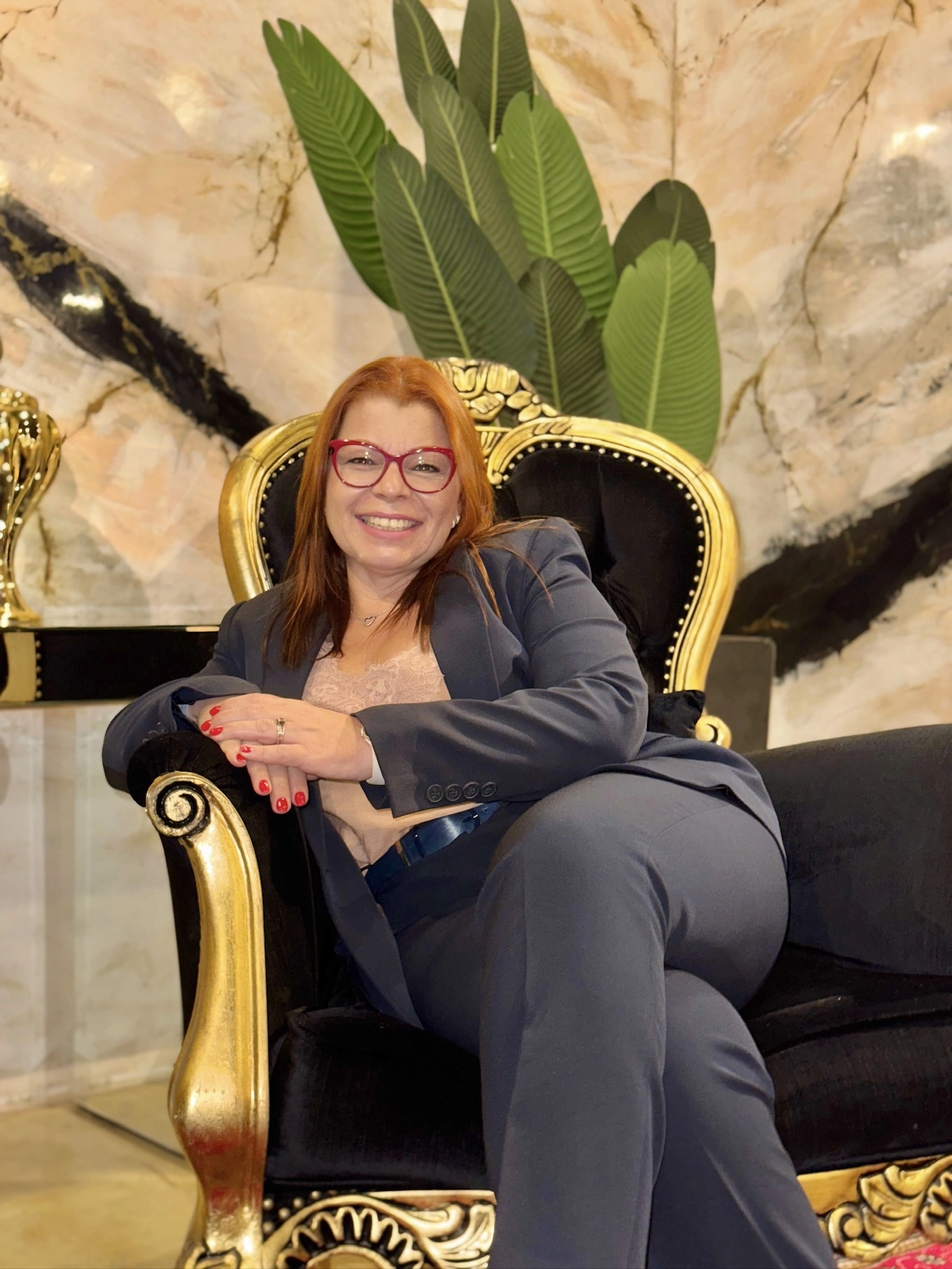
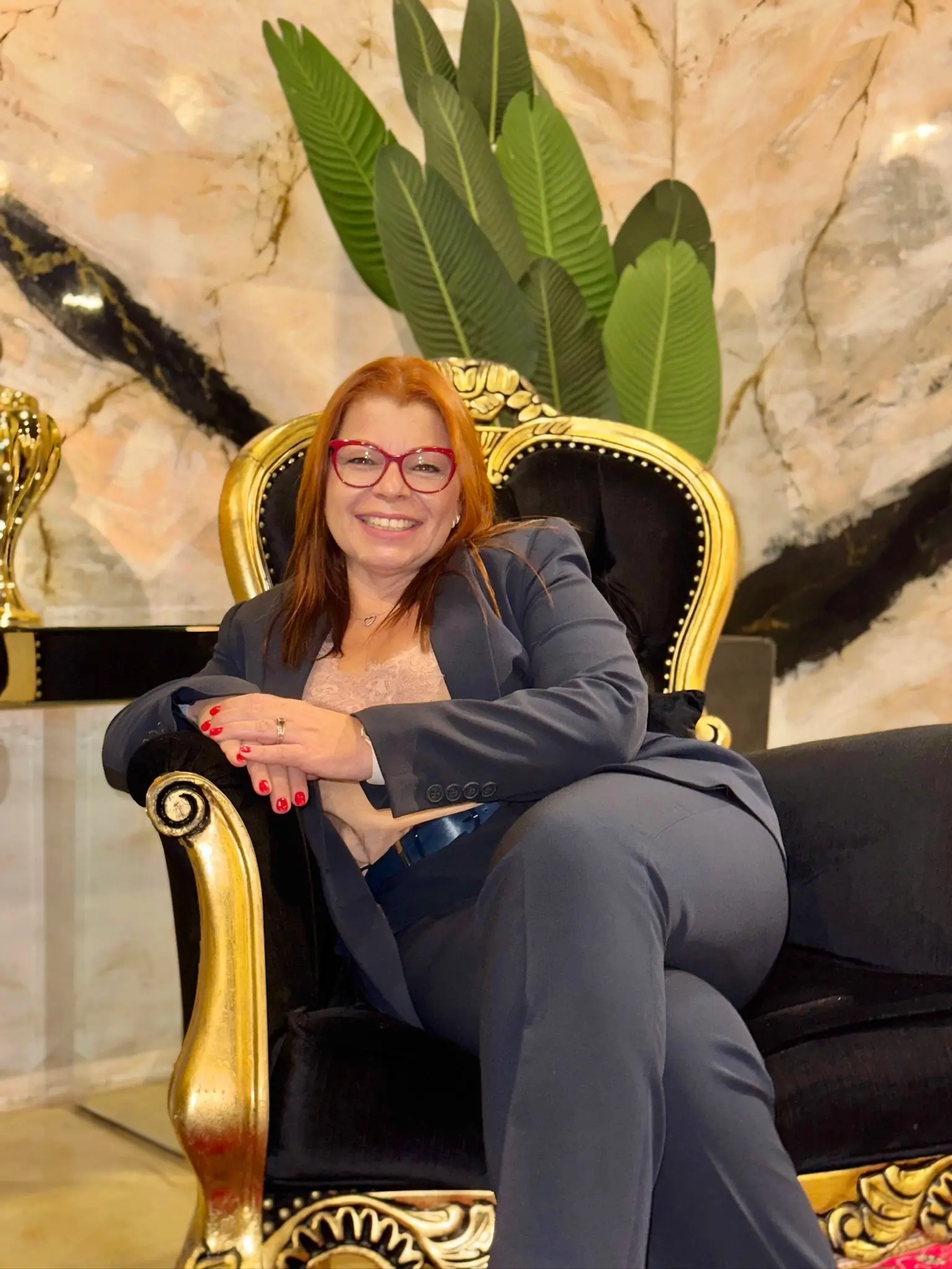
adiciona imagens comprimidas

diff --git a/styles/index.css b/styles/index.css
@@ -4,7 +4,7 @@
   height: 100vh;
   display: flex;
   align-items: center;
-  background-image: url(../images/background.jpg);
+  background-image: url(../images/background.webp);
   background-position: center;
   background-repeat: no-repeat;
   background-size: cover;
